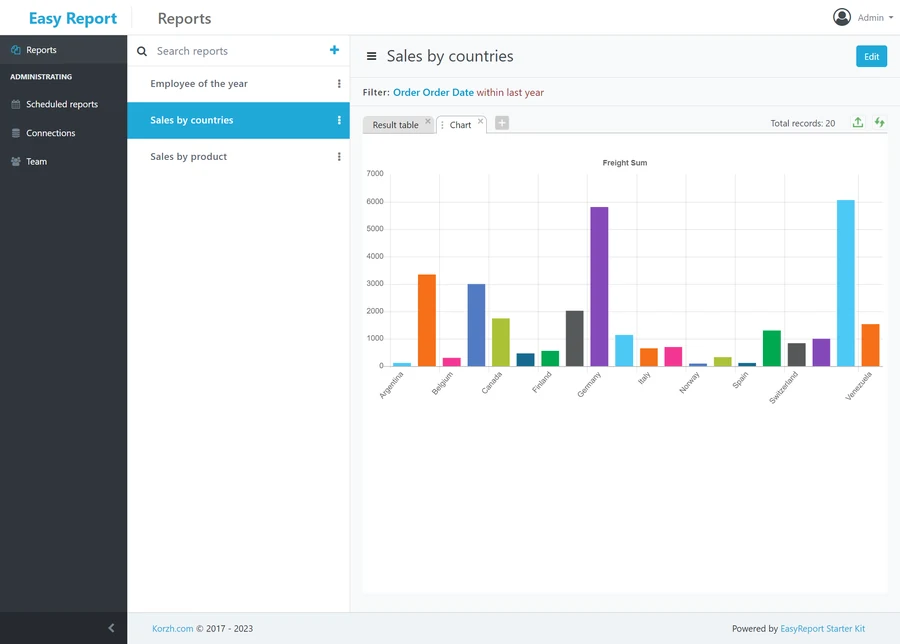
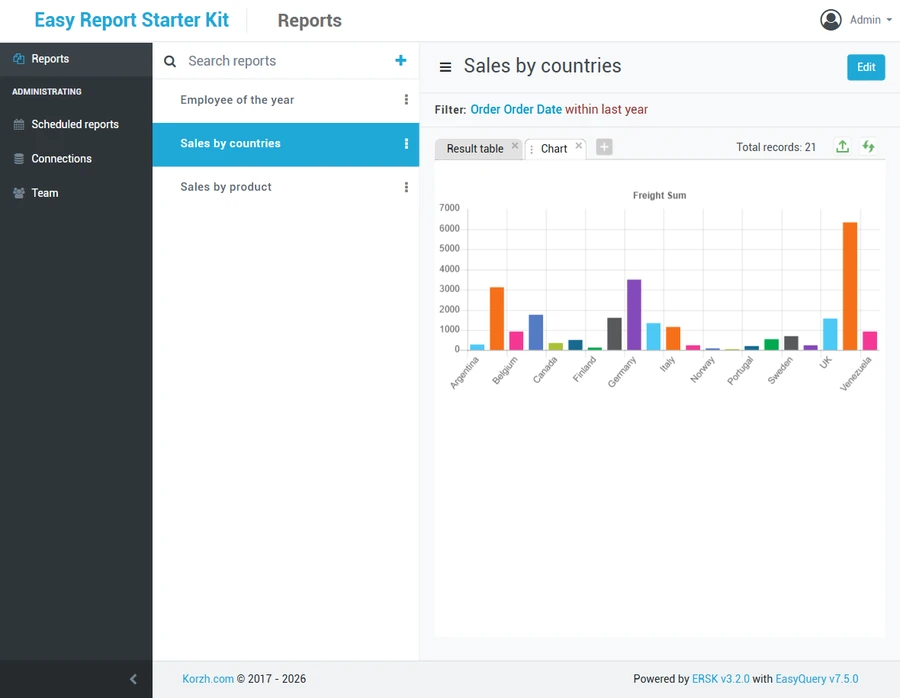
Reshoot the ERSK screenshots from a local ERSK Pro
The old shots dated from 2023: one showed a personal email address,
another broken characters in product names. New ones come from ERSK
3.2.0 with EasyQuery 7.5.0 on the Northwind demo connection, in a
"Northwind Traders" team with example.com addresses only.

The six shots: a column chart, a result table, the report editor, a
doughnut chart, a pivot table with totals (a new report, Sales by
category and country) and scheduled reports. The ERSK page shows all
six again; /easyquery shows the four that match the list beside it:
charts, pivots, the editor and scheduled reports.

Claude-Session: https://claude.ai/code/session_01SKU9iUfA3orhhgnd73DBWd

diff --git a/source/easy-report-starter-kit.html b/source/easy-report-starter-kit.html
@@ -146,7 +146,7 @@ title: EASYREPORT STARTER KIT >> Korzh.com - Tools from Developers for Developer
                     <div class="cell-6 p-2">
                         <div class="image-preview h-100 border bd-default">
                             <img src="/assets/images/easy-report-01.webp"
-                                data-original="/assets/images/easy-report-01.jpg" alt="EasyReport Starter Kit: a bar chart report" />
+                                data-original="/assets/images/easy-report-01.jpg" alt="EasyReport Starter Kit: a column chart report" />
                         </div>
                     </div>
                     <div class="cell-6 p-2">
@@ -158,13 +158,25 @@ title: EASYREPORT STARTER KIT >> Korzh.com - Tools from Developers for Developer
                     <div class="cell-6 p-2">
                         <div class="image-preview h-100 border bd-default">
                             <img src="/assets/images/easy-report-03.webp"
-                                data-original="/assets/images/easy-report-03.jpg" alt="EasyReport Starter Kit: the report editor" />
+                                data-original="/assets/images/easy-report-03.jpg" alt="EasyReport Starter Kit: the report editor with the visual query builder" />
                         </div>
                     </div>
                     <div class="cell-6 p-2">
                         <div class="image-preview h-100 border bd-default">
                             <img src="/assets/images/easy-report-04.webp"
-                                data-original="/assets/images/easy-report-04.jpg" alt="EasyReport Starter Kit: a polar area chart" />
+                                data-original="/assets/images/easy-report-04.jpg" alt="EasyReport Starter Kit: a doughnut chart" />
+                        </div>
+                    </div>
+                    <div class="cell-6 p-2">
+                        <div class="image-preview h-100 border bd-default">
+                            <img src="/assets/images/easy-report-05.webp"
+                                data-original="/assets/images/easy-report-05.jpg" alt="EasyReport Starter Kit: a pivot table with totals" />
+                        </div>
+                    </div>
+                    <div class="cell-6 p-2">
+                        <div class="image-preview h-100 border bd-default">
+                            <img src="/assets/images/easy-report-06.webp"
+                                data-original="/assets/images/easy-report-06.jpg" alt="EasyReport Starter Kit: scheduled reports sent by email" />
                         </div>
                     </div>
                 </div>

diff --git a/source/easyquery.html b/source/easyquery.html
@@ -159,22 +159,22 @@ title: EasyQuery — a visual query builder for your .NET app >> Korzh.com
                 <div class="row" data-role="lightbox" data-cls-close="bg-red fg-white" data-icon-close="<span class='mif-cross'>">
                     <div class="cell-6 p-2">
                         <div class="image-preview h-100 border bd-default">
-                            <img src="/assets/images/easy-report-01.webp" data-original="/assets/images/easy-report-01.jpg" alt="EasyReport Starter Kit: a bar chart report">
+                            <img src="/assets/images/easy-report-01.webp" data-original="/assets/images/easy-report-01.jpg" alt="EasyReport Starter Kit: a column chart report">
                         </div>
                     </div>
                     <div class="cell-6 p-2">
                         <div class="image-preview h-100 border bd-default">
-                            <img src="/assets/images/easy-report-02.webp" data-original="/assets/images/easy-report-02.jpg" alt="EasyReport Starter Kit: a report result table">
+                            <img src="/assets/images/easy-report-05.webp" data-original="/assets/images/easy-report-05.jpg" alt="EasyReport Starter Kit: a pivot table with totals">
                         </div>
                     </div>
                     <div class="cell-6 p-2">
                         <div class="image-preview h-100 border bd-default">
-                            <img src="/assets/images/easy-report-03.webp" data-original="/assets/images/easy-report-03.jpg" alt="EasyReport Starter Kit: the report editor">
+                            <img src="/assets/images/easy-report-03.webp" data-original="/assets/images/easy-report-03.jpg" alt="EasyReport Starter Kit: the report editor with the visual query builder">
                         </div>
                     </div>
                     <div class="cell-6 p-2">
                         <div class="image-preview h-100 border bd-default">
-                            <img src="/assets/images/easy-report-04.webp" data-original="/assets/images/easy-report-04.jpg" alt="EasyReport Starter Kit: a polar area chart">
+                            <img src="/assets/images/easy-report-06.webp" data-original="/assets/images/easy-report-06.jpg" alt="EasyReport Starter Kit: scheduled reports sent by email">
                         </div>
                     </div>
                 </div>
